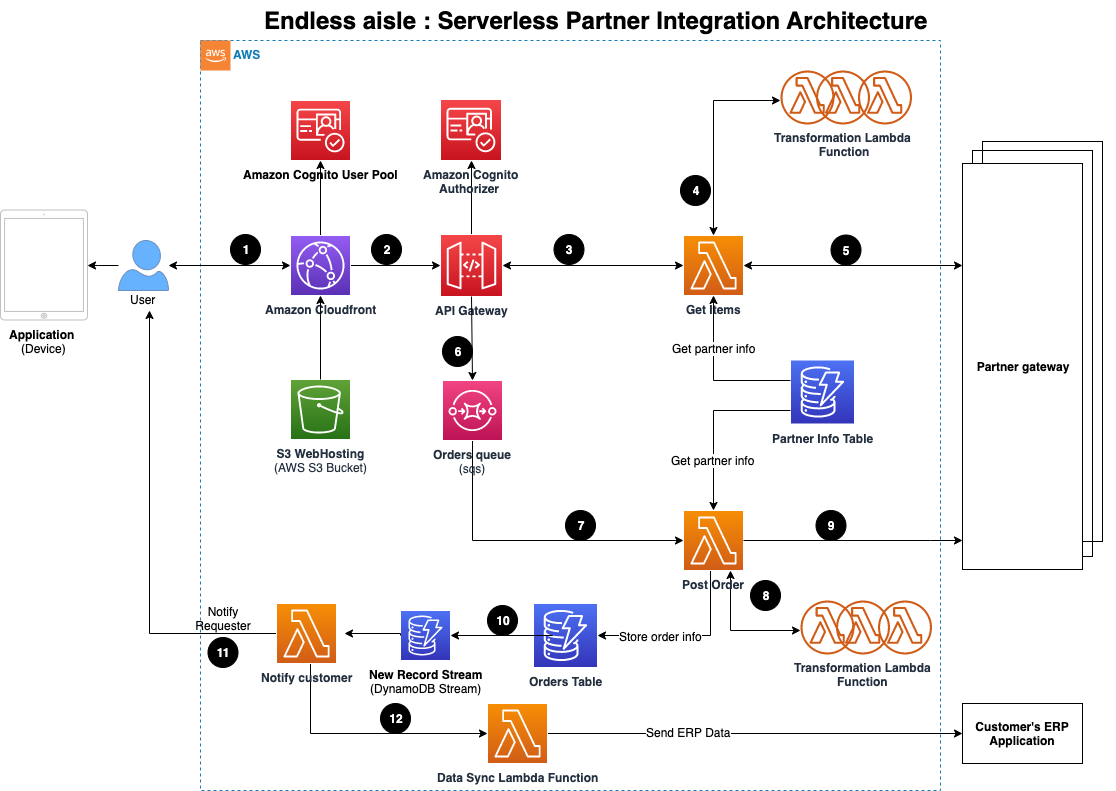
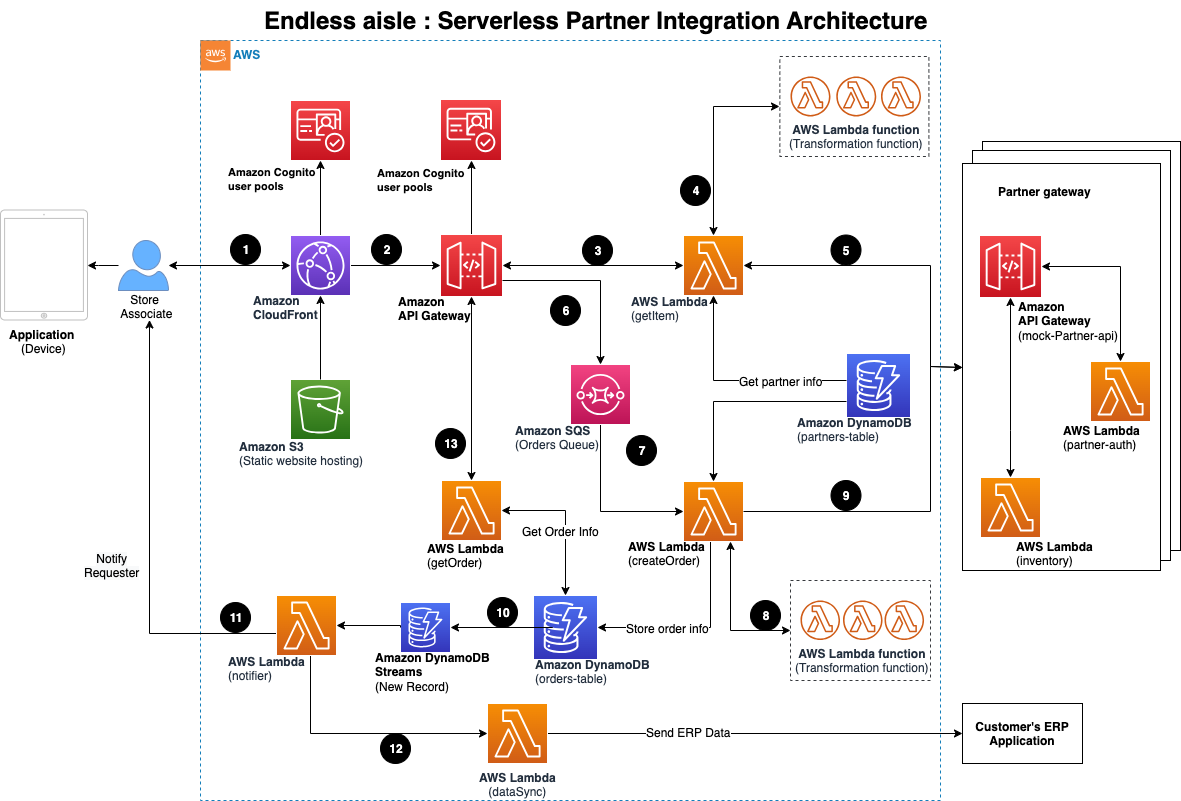
Added description to Resource names (#10)
Added description and Resource names,
Refreshed architecture diagram,
Removed unused files.

diff --git a/infrastructure/lib/constructs/order-api.ts b/infrastructure/lib/constructs/order-api.ts
@@ -9,7 +9,7 @@ import { Effect, Policy, PolicyStatement, Role, ServicePrincipal } from 'aws-cdk
 import { Code, EventSourceMapping, HttpMethod, IFunction, Runtime } from 'aws-cdk-lib/aws-lambda';
 import { Queue } from 'aws-cdk-lib/aws-sqs';
 import { Construct } from 'constructs';
-import { CreateOrderSchema, GetOrderSchema, UpdateOrderSchema } from '../schema/apischema';
+import { CreateOrderSchema, GetOrderSchema } from '../schema/apischema';
 
 // Properties for the ordering-stack
 export interface OrderApiProps {
@@ -53,6 +53,8 @@ export class OrderApiConstruct extends Construct {
 
     const createOrder = new LambdaToDynamoDB(this, 'create-order', {
       lambdaFunctionProps: {
+        functionName: `endless-aisle-createOrder-lambda`,
+        description: `Lambda Function to create orders by calling partner endpoints.`,
         runtime: Runtime.NODEJS_18_X,
         code: Code.fromAsset(`${__dirname}/../lambda/`),
         handler: 'createOrder.handler',
@@ -92,9 +94,11 @@ export class OrderApiConstruct extends Construct {
     const order = orders.addResource('{id}');
 
     const orderdlq = new Queue(this, "Order-DLQ", {
+      queueName: `create-order-dlq`,
       enforceSSL: true
     })
     const orderqueue = new Queue(this, 'OrderQueue', {
+      queueName: `create-order-queue`,
       deadLetterQueue: {
         maxReceiveCount: 1,
         queue: orderdlq
@@ -180,6 +184,8 @@ export class OrderApiConstruct extends Construct {
     // A Lambda function that gets an order from the database
     const getOrder = new LambdaToDynamoDB(this, 'get-order', {
       lambdaFunctionProps: {
+        functionName: `endless-aisle-getOrder-lambda`,
+        description: `Lambda Function to get order information from DB.`,
         runtime: Runtime.NODEJS_18_X,
         code: Code.fromAsset(`${__dirname}/../lambda/`),
         handler: 'getOrder.handler',
@@ -226,51 +232,6 @@ export class OrderApiConstruct extends Construct {
       }, { statusCode: '400' }, { statusCode: '500' }]
     });
 
-    // A Lambda function that updates an order from the database
-    const updateOrder = new LambdaToDynamoDB(this, 'update-order', {
-      lambdaFunctionProps: {
-        runtime: Runtime.NODEJS_18_X,
-        code: Code.fromAsset(`${__dirname}/../lambda/`),
-        handler: 'updateOrder.handler',
-        timeout: Duration.seconds(15),
-        environment: props.lambdaEnviroment
-      },
-      existingTableObj: props.ordertable
-    });
-
-    updateOrder.lambdaFunction.role?.attachInlinePolicy(props.cloudWatchPolicy);
-
-    props.partnertable.grantReadData(updateOrder.lambdaFunction);
-
-    const updateOrderByIdIntegration = new LambdaIntegration(updateOrder.lambdaFunction);
-
-    const updateOrderRequestModel = new Model(this, "update-order-request-model", {
-      restApi: props.congitoToApiGwToLambdaRestApi,
-      contentType: "application/json",
-      description: "To validate the request body",
-      modelName: "updateOrdermodel",
-      schema: UpdateOrderSchema
-    });
-
-    const updateOrderRequestModelOption: MethodOptions = {
-      authorizationType: AuthorizationType.COGNITO,
-      authorizationScopes: ['email', 'openid', 'aws.cognito.signin.user.admin'],
-      requestParameters: {
-        "method.request.path.id": true,
-      },
-      requestModels: {
-        "application/json": updateOrderRequestModel,
-      },
-      methodResponses: [{
-        statusCode: '200', responseParameters: {
-          "method.response.header.Access-Control-Allow-Headers": true,
-          "method.response.header.Access-Control-Allow-Methods": true,
-          "method.response.header.Access-Control-Allow-Origin": true
-        }
-      }, { statusCode: '400' }, { statusCode: '500' }]
-    }
-
     this.createOrderLambda = createOrder.lambdaFunction;
-    order.addMethod("PATCH", updateOrderByIdIntegration, updateOrderRequestModelOption);
   }
 }

diff --git a/infrastructure/lib/constructs/item-api.ts b/infrastructure/lib/constructs/item-api.ts
@@ -63,6 +63,8 @@ export class ItemApiConstruct extends Construct {
     // // A Lambda function that gets an item from the database
     const getItem = new LambdaToDynamoDB(this, 'get-item', {
       lambdaFunctionProps: {
+        functionName: `endless-aisle-getItem-lambda`,
+        description: `Lambda Function to get item availability.`,
         runtime: Runtime.NODEJS_18_X,
         code: Code.fromAsset(`${__dirname}/../lambda/`),
         handler: 'getItem.handler',
@@ -106,6 +108,8 @@ export class ItemApiConstruct extends Construct {
 
     const orderStatus = new LambdaToDynamoDB(this, 'notifier-order-status', {
       lambdaFunctionProps: {
+        functionName: `endless-aisle-notifier-lambda`,
+        description: `Lambda Function to notify store associate about order placements.`,
         runtime: Runtime.NODEJS_18_X,
         code: Code.fromAsset(`${__dirname}/../lambda/`),
         handler: 'notifier.handler',
@@ -120,6 +124,7 @@ export class ItemApiConstruct extends Construct {
 
     orderStatus.lambdaFunction.addToRolePolicy(props.cloudWatchPolicyStatement);
     const orderStatusdlq = new Queue(this, "notifier-order-status-DLQ", {
+      queueName: `notify-order-dlqueue`,
       enforceSSL: true
     })
 
@@ -128,6 +133,7 @@ export class ItemApiConstruct extends Construct {
       existingTableInterface: props.ordertable,
       deploySqsDlqQueue: true,
       sqsDlqQueueProps: {
+        queueName: `notify-order-queue`,
         deadLetterQueue: {
           maxReceiveCount: 1,
           queue: orderStatusdlq

diff --git a/infrastructure/lib/infrastructure-stack.ts b/infrastructure/lib/infrastructure-stack.ts
@@ -42,7 +42,7 @@ export class InfrastructureStack extends Stack {
      * Create Partner API Mock versions
      */
     const partnerInventoryApi = new APIGatewayConstruct(this, 'partnerInventoryApi', {
-      apiname: 'mockInventory',
+      apiname: 'mock-inventory-api',
       cloudWatchPolicyStatement: cloudWatchPolicyStatement,
       TOKEN_PATH: TokenPath,
       webacl: webacl.wafwebacl
@@ -63,12 +63,15 @@ export class InfrastructureStack extends Stack {
     // Setup the API with Cognito user pool
     const congitoToApiGwToLambda = new CognitoToApiGatewayToLambda(this, 'endless-aisle-api', {
       lambdaFunctionProps: {
+        functionName: `endless-aisle-cognito-lambda`,
+        description: `Lambda Function to handle authorization for endless aisle requests.`,
         runtime: Runtime.NODEJS_18_X,
         code: Code.fromAsset(`${__dirname}/lambda/`),
         handler: 'cognito.handler',
         timeout: Duration.seconds(15),
       },
       apiGatewayProps: {
+        restApiName: "endless-aisle-api",
         proxy: false,
         description: 'Endless Aisle handler API'
       },
@@ -186,7 +189,7 @@ export class InfrastructureStack extends Stack {
       backendApi: this.apigw.url,
     });
 
-    new CfnOutput(this, "domainurl", { value: `${wafwebaclToCloudFrontToS3.cloudFrontWebDistribution.distributionDomainName}` });
+    new CfnOutput(this, "cloudfrontURL", { value: `${wafwebaclToCloudFrontToS3.cloudFrontWebDistribution.distributionDomainName}` });
 
 
     new CfnOutput(this, 'userPoolId', {

diff --git a/infrastructure/lib/common/apigateway/apiGateway.ts b/infrastructure/lib/common/apigateway/apiGateway.ts
@@ -43,6 +43,8 @@ export class APIGatewayConstruct extends Construct {
 
     // A Lambda function to get inventory from partner
     const inventoryHandler = new Function(this, `${props.apiname}Lambda`, {
+      functionName: `partner-inventory-lambda`,
+      description: `Lambda Function to get items and post order to partner endpoint.`,
       runtime: Runtime.NODEJS_18_X,
       code: Code.fromAsset(`${__dirname}/../../lambda/`),
       handler: 'inventory.handler',
@@ -56,10 +58,12 @@ export class APIGatewayConstruct extends Construct {
     // add the policy to the Function's role
     partnerInventoryRole.addToPrincipalPolicy(props.cloudWatchPolicyStatement);
 
-    const partnerCustomAuthHandler = new Function(this, `${props.apiname}-partner-cognito-Lambda`, {
+    const partnerCustomAuthHandler = new Function(this, `${props.apiname}-partner-auth-Lambda`, {
+      functionName: `partner-auth-lambda`,
+      description: `Lambda Function to handle authorization for partner requests.`,
       runtime: Runtime.NODEJS_18_X,
       code: Code.fromAsset(`${__dirname}/../../lambda/`),
-      handler: 'partnerCognito.handler',
+      handler: 'partnerAuth.handler',
       role: partnerInventoryRole,
       environment: {
         TOKEN_PATH: props.TOKEN_PATH

diff --git a/infrastructure/lib/common/storage/dynamoDB.ts b/infrastructure/lib/common/storage/dynamoDB.ts
@@ -31,6 +31,7 @@ export class DDBTable extends Construct {
 
     // Setup the database ----------------------------------------------------------------------------------------------
     this.table = new ddb.Table(this, `${props.tablename}-table`, {
+      tableName: `${props.tablename}-table`,
       partitionKey: props.primaryKey,
       billingMode: ddb.BillingMode.PROVISIONED,
       removalPolicy: RemovalPolicy.DESTROY,

diff --git a/README.md b/README.md
@@ -2,7 +2,10 @@
 
 This CDK constructs provides sample serverless solution for multiple partner integration. 
 
-This AWS CDK application that provides a sample to create `Endless Aisle` solution for an e-commerce company. `Endless Aisle` is an alternative solution to meet customer’s demand. It models as drop-shipping i.e. fulfilling the order through automated integration with the product or reseller partners. Such automation would result in customer’s ability to place the order on a tablet or kiosk when they do not find a specific product of their choice. It allows businesses to no longer keep stock products more than the shelf inventory and still the end customer can place an order and get it shipped at their home.
+This AWS CDK application that provides a sample to create `Endless Aisle` solution for a retail organization. 
+In today’s global world, many retailers do not have a business model to carry additional inventory, and own or lease warehouses. They do not want to worry about storing products. For a lean retailer, who carries enough inventory at the store, but does not want to lose any revenue because of shortage of inventory, Endless Aisle is an alternative solution to meet customer’s demand. This business model is known as drop-shipping, which means fulfilling the order through automated integration with the product partners.
+
+Such automation would result in a customer’s ability to place an order on a tablet or kiosk when they do not find a specific product of their choice on shelves. Now, business no longer needs to stock products more than shelf deep. The end customer can easily place an order at the store for the product of their choice, and get it shipped to their home.
 
 The `cdk.json` file tells the CDK Toolkit how to execute your app.
 
@@ -31,23 +34,24 @@ To install and build the latest code in `serveless-partner-integration-endless-a
 
 1. First we wil install aws-cdk library locally.
 ```bash
+
 npm install -g aws-cdk
 ```
 
 2. We will build website package to generate deployable website static content.
 
 ```bash
+
 cd serveless-partner-integration-endless-aisle/website
 npm install
 ```
-
 3. Here we will install required packages for our Lambda code.
 
 ```bash
 cd ../infrastructure/lib/lambda
 npm install
-```
 
+```
 4. We will build Infrastructure package to create deployable assets which will be used in cloudfromation template. 
 
 ```bash
@@ -64,7 +68,8 @@ To see the Cloudformation template generated by the CDK, run `cdk synth` in the 
 - Optional : 
     - If store wants to get updates about customer orders, they can set SENDER_EMAIL value with store email. You will receive verification email in this account, after which SES can send you order updates.
 ```bash
-  export STORE_EMAIL= dummytest@someemail.com
+
+  export STORE_EMAIL="dummytest@someemail.com"
 ```
 
 
@@ -80,6 +85,7 @@ cdk synth
 Run `cdk deploy`. This will deploy / redeploy your Stack to your AWS Account.
 
 ```bash
+
 cdk deploy 
 ```
 
@@ -97,71 +103,6 @@ aws cognito-idp admin-create-user --user-pool-id <REACT_APP_USER_POOL_ID> --user
 - If you have set up email correctly while setting the infrastructure, you will receive and email in the given email address for every order.
 - Please approve email link received in email address.
 - You can also use postman to generate ID_Token and call following API with token, or login into AWS account and test APIs using API GAteway's inbuilt testing page to see results.
-
-
-### Request templates
-
----
-Orders API
-
-- create order api /orders post
-  
-```bash
-- HTTP Method 
-    POST
-
-- URL: 
-    https://<REST-API-ID>.execute-api.<AWS-REGION>.amazonaws.com/prod/orders
-```
- BODY
-```json
-{"requestedItem":{"itemId":"1","quantity":1,"size":"1","partner":"Partner1","price":1,"partnerId":"1","sku":"1","category":"1"},"customer":{"address":"test @test.com","contact":"test","email":"test"}}
-```
-
-- Get Order api /orders/{id} get
-
-```bash
-- HTTP Method 
-GET
-
-- URL
-
-https://<REST-API-ID>.execute-api.<AWS-REGION>.amazonaws.com/prod/orders/1?partner=Partner1
-```
-
-- Patch Order api /orders/{id} PATCH
-
-```bash
-- HTTP Method 
-    PATCH
-
-- URL: 
-    https://<REST-API-ID>.execute-api.<AWS-REGION>.amazonaws.com/prod/orders
-```
-
-BODY
-```json
-    {"partnerId":"1","orderStatus":"Completed"}
-```
-
---- 
-Item API
-
--  Get item api /items/{id} get
-  
-```bash
-- HTTP Method 
-    GET
-
-- URL:
-    https://<REST-API-ID>.execute-api.<AWS-REGION>.amazonaws.com/prod/items/10?partner=Partner1&partnerId=1&quantity=1
-```
-
-
-After the deployment CDK will output the API Gateway URL endpoint to be used for testing.
-
-- Launch URL 
-
 
 ## Clean up
 

diff --git a/infrastructure/README.md b/infrastructure/README.md
@@ -70,21 +70,6 @@ GET
 https://<REST-API-ID>.execute-api.<AWS-REGION>.amazonaws.com/prod/orders/1?partner=Partner1
 ```
 
-- Patch Order api /orders/{id} PATCH
-
-```bash
-- HTTP Method 
-    PATCH
-
-- URL: 
-    https://<REST-API-ID>.execute-api.<AWS-REGION>.amazonaws.com/prod/orders/:orderId
-```
-
-BODY
-```json
-    {"partnerId":"1","orderStatus":"Completed"}
-```
-
 --- 
 Item API
 
